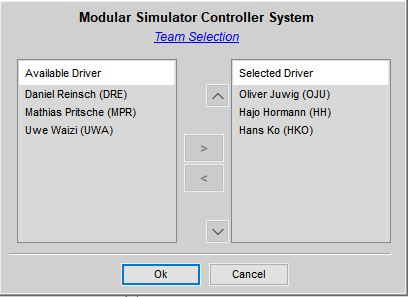
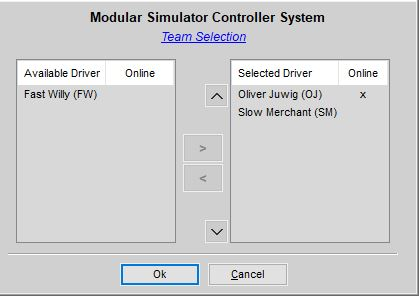
Documentation Update

diff --git a/Docs/Team Server.md b/Docs/Team Server.md
@@ -2,6 +2,8 @@
 
 *Team Server* is a server-based solution, which enables you to use the services of the Virtual Race Assistants in a team race, e.g. a 24h race. Without the *Team Server* these services are only available to the driver of the first stint, for all other drivers the Race Assistants do not even start because they do not have the data from the first laps. With the help of *Team Server*, a central server that manages the data of all drivers in a database, this critical knowledge can now be shared between all drivers. The connection to this server is established by the individual applications of the Simulator Controller suite ("Simulator Controller", "Race Engineer", "Race Strategist", ...) using Web APIs over HTTPS. This ensures the greatest possible interoperability and flexibility when setting up the central server.
 
+Beside providing the basis for team races, the Team Server can also be used as a central data hub for all telemetry data collected by any team member. This data can be replicated to your local telemetry database to be used during strategy development or any other data related tasks.
+
 A public test server can be used for a test ride with with the Tean Server and ["Race Center"](https://github.com/SeriousOldMan/Simulator-Controller/wiki/Team-Server#race-center), to see what it can do for you and your team. See the [description](https://github.com/SeriousOldMan/Simulator-Controller/wiki/Team-Server#test-session) below for more information on how to connect to the server and load a test session.
 
 To give you a quick start with the Team Server, a managed server is available for you and your teams to use. To get access, you have to become a patron of Simulator Controller. Please check the [home page](https://www.patreon.com/simulatorcontroller) on www.patreon.com for more information. But you can also host your own instance of the Team Server, which is described in detail in the section below.
@@ -19,6 +21,8 @@ To start the *Team Server*, you simply start the "Team Server.exe" from the corr
 
 	  "TokenLifeTime": 10080,
 
+	  "ConnectionLifeTime": 300,
+
 	  "Accounts": [
 		{
 		  "Name": "admin",
@@ -29,6 +33,8 @@ To start the *Team Server*, you simply start the "Team Server.exe" from the corr
 		  "Name": "Test",
 		  "Password": "",
 		  "Minutes": 120,
+		  "Session": true,
+		  "Data": true,
 		  "Reset": true
 		}
 	  ]
@@ -36,9 +42,9 @@ To start the *Team Server*, you simply start the "Team Server.exe" from the corr
 
 You first have to decide, where to locate the database, where all stuff will be stored. *Team Server* uses the *SQLite* SQL database ngine, therefor you can provide for the "DBPath" option any valid connect string supported by *SQLite*. The most common connect string file be a file path like "D:\Controller\Database\TeamServer.db", for example. But you can also provide the special connect string ":memory:", which will instantiate the database in the process memory. Please be aware, that everything will be lost, if this process terminates. You can also use the special connect string ":local:", which creates a "TeamServer.db" file in the same directory as the "Team Server.exe" executable. If this works, depends on your hosting environment and the quotas assigned to your app by your hosting company.
 
-The next option, "TokenLifeTime", specifies, how long an access token for your team mates will be valid. Access tokens will be described in detail in a later chapter. The life time will be specified in minutes, the 10080 minutes from the example above are exactly 7 days.
+The next option, "TokenLifeTime", specifies, how long a session token for your team mates will be valid. Session tokens will be described in detail in a later chapter. The life time will be specified in minutes, the 10080 minutes from the example above are exactly 7 days. With "ConnectionLifeTime" you specifiy also in seconds how long a connection to the Team Server is to be considered active. This is only for administrtaive purposes, since a client of the Team Server does not need a connection to perform a request, only a valid token. But connections are used in the "Server Administration" tool as well as in the "Race Center" to display, who has been active on the Team Server recently.
 
-Using the "Accounts" option, you can *preload* accounts into an empty database. This cannot be empty, or you won't be able to connect to the *Team Server*. So make sure, that at least one administrator account will be created, since only these accounts will have access to the server administration tools. The number of "Minutes" specifies the amount of time, this account has left for team sessions (necessary for the managed pay-per-use model). Last, but not least, you can create accounts, that will reset with each restart of the server, for example for test purposes. If you are the only one, who will createa and manage teams, this is it, otherwise hand over the corresponding account name and password to your mates.
+Using the "Accounts" option, you can *preload* accounts into an empty database. This cannot be empty, or you won't be able to connect to the *Team Server*. So make sure, that at least one administrator account will be created, since only these accounts will have access to the server administration tools. The number of "Minutes" specifies the amount of time, this account has left for team sessions (necessary for the managed pay-per-use model). Using the attributes "Session" (default: *true*) and "Data" (default: *false*) you can specify whether users from this account may access team sessions and / or use the data synchronization. Last, but not least, you can create accounts, that will reset with each restart of the server, for example for test purposes, by using the "Reset" attribute. Default here is *false*. If you are the only one, who will create and manage teams, this is it, otherwise hand over the corresponding account name and password to your mates.
 
 Last, but not least, you have to communicate the web URI to all team managers and drivers, which will use the *Team Server*. An URI for your local PC will look like "https://localhost:5001", one for an Azure might look like "https://teamserver.thebigo.azurewebsites.com". This depends on your chosen host environment.
 
@@ -56,13 +62,17 @@ You manage your teams using the "Simulator Configuration" application. You will 
 
 In the first field, you select a folder, where dynamic session data will be stored, when you and your team mates will use the "Race Center" during the session. If you don't supply a special directory here, the data will be stored in the temporary folder in the *Simulator Controller\Temp* folder, which is located in your user *Documents* folder and might therefore be lost at the end of the session. Please see the documentation for "Race Center" down below for more information on data handling.
 
-Then you have to enter the URI, where the *Team Server* can be reached (see above). Then you have to provide the account credentials (name and password) in the second line. If everything is correct, you will get an access token, if you click on the small button with the key (otherwise you will see an error dialog, which describes the problem). This access token will always be freshly created and is therefore valid for the period stated in the "Settings.json" file as described in the [installation](https://github.com/SeriousOldMan/Simulator-Controller/wiki/Team-Server#installation--configuration) chapter. You can copy both the Server URI and the token to the clipboard using the small buttons on the right side and you can change your password by clicking on the small pencil beside the password field.
+Then you have to enter the URI, where the *Team Server* can be reached (see above). Then you have to provide the account credentials (name and password) in the second line. If everything is correct, access tokens will be created, if you click on the small button with the key (otherwise you will see an error dialog, which describes the problem). The token in the first field is a session token to access team races. It will always be freshly created and is therefore valid for the period stated in the "Settings.json" file as described in the [installation](https://github.com/SeriousOldMan/Simulator-Controller/wiki/Team-Server#installation--configuration) chapter. The second token, which will never change as long as the account exists, can be used to create a replication partnership between your local telemetry database and the central database. See the documentation for the ["Session Database" configuration](https://github.com/SeriousOldMan/Simulator-Controller/wiki/Virtual-Race-Engineer#choosing-the-database-location) for more information.
 
-You can now hand the access token to your team mates, but before you do this, you have to create a team for them. You can create as many teams as you whish, each of which can have as many drivers as necessary. The most important part is the naming of the drivers, as these names are used to identify the driver during the race. It is absolutely important that you enter the names (First name, last name and nick name) exactly as they will appear in the simulation. The names will appear in the format *firstName* *lastName* (*nickName*), where the paranthesis are not part of the nick name. In the last list, you enter the sessions or events you want to participate in with your team, for example "24h of Bathurst". Please note, that all changes you made to your teams, drivers and sessions on the "Team" tab will be saved permanently, independent whether you leave the "Race Settings" dialog using the "Ok" or the "Cancel" button.
+Please note, that you can copy the Server URI and the tokens to the clipboard using the small buttons on the right side of the fields and you can change your password by clicking on the small pencil beside the password field.
+
+You can now hand the session token to your team mates, but before you do this, you have to create a team for them. You can create as many teams as you whish, each of which can have as many drivers as necessary. The most important part is the naming of the drivers, as these names are used to identify the driver during the race. It is absolutely important that you enter the names (First name, last name and nick name) exactly as they will appear in the simulation. The names will appear in the format *firstName* *lastName* (*nickName*), where the paranthesis are not part of the nick name. In the last list, you enter the sessions or events you want to participate in with your team, for example "24h of Bathurst". Please note, that all changes you made to your teams, drivers and sessions on the "Team" tab will be saved permanently, independent whether you leave the configuration dialog using the "Save" or the "Cancel" button.
+
+Data tokens can also be shared with your team mates. You do not have to create a team in this case. Simply send the token to everyone who will take part in the data replication partnership. See the documentation of the ["Session Database" tool](https://github.com/SeriousOldMan/Simulator-Controller/wiki/Virtual-Race-Engineer#managing-the-session-database) for more information. The telemetry data shared using the central Team Server in this way will be used in the "Strategy Workbench", for example.
 
 Note: Deleting Teams, Drivers and Sessions may take quite a while, depending on the amount of data to be changed on the server. Deleting a session with data from a 24 hour race, or deleting the corresponding team which owns this session, may take several minutes.
 
-Note: Sessions can be *used* many times. If you start a session, which has been used before, all data from the previous usage will be deleted automatically. On the other hand you want to have meaningful names for your sessions, so feel free to delete old sessions and create new ones as necessary.
+Note: Sessions can be *used* multiple times. If you start a session, which has been used before, all data from the previous usage will be deleted automatically. On the other hand you want to have meaningful names for your sessions, so feel free to delete old sessions and create new ones as necessary.
 
 That's it for team administration.
 
@@ -72,9 +82,9 @@ First of all, it is absolutely important to note that a team session can only fu
 
 ![](https://github.com/SeriousOldMan/Simulator-Controller/blob/main/Docs/Images/Race%20Settings%204.JPG)
 
-Select the tab named "Team", and enter the server URI as well as the access token, which has been provided by the team manager as described above in the chapter about [team administration](https://github.com/SeriousOldMan/Simulator-Controller/wiki/Team-Server#managing-teams). Please note, that the tab "Team" is not available in the "Session Database", since the settings that are stored there will be independent of a given team.
+Select the tab named "Team", and enter the server URI as well as the session token, which has been provided by the team manager as described above in the chapter about [team administration](https://github.com/SeriousOldMan/Simulator-Controller/wiki/Team-Server#managing-teams). Please note, that the tab "Team" is not available in the "Session Database", since the settings that are stored there will be independent of a given team.
 
-Once you have entered the server credentials, you can click on the small button with the key and the available teams, drivers and sessions associated with the access token will be loaded. As an alternative, you can hold down the Control key, while pressing on the "Key" button which will open a login dialog where you can enter the login credentials of the team manager. Select the team, your driver and the session, and you are done - almost.
+Once you have entered the server credentials, you can click on the small button with the key and the available teams, drivers and sessions associated with the session token will be loaded. As an alternative, you can hold down the Control key, while pressing on the "Key" button which will open a login dialog where you can enter the login credentials of the team manager. Select the team, your driver and the session, and you are done - almost.
 
 ## Running a team session
 
@@ -110,7 +120,7 @@ Important: "Race Center" displays various graphs using the Google chart library 
 
 ### Connecting to a Session
 
-To use the "Race Center", you must have a valid connection to a team session. This is normally handled by entering the corresponding server URL and access token into the ["Race Settings" application](https://github.com/SeriousOldMan/Simulator-Controller/wiki/Team-Server#preparing-a-team-session), but you can even connect to a team session without being an active driver in the session by entering the access token supplied by your team manager directly into the field at the top of the "Race Center" window. Then either click on the small button with the key on the left of the token field or choose "Connect" from the "Session" menu. As an alternative, you can hold down the Control key, while pressing on the "Key" button or choosing the menu command, which will open a login dialog where you can enter the login credentials of the team manager.
+To use the "Race Center", you must have a valid connection to a team session. This is normally handled by entering the corresponding server URI and session token into the ["Race Settings" application](https://github.com/SeriousOldMan/Simulator-Controller/wiki/Team-Server#preparing-a-team-session), but you can even connect to a team session without being an active driver in the session by entering the session token supplied by your team manager directly into the field at the top of the "Race Center" window. Then either click on the small button with the key on the left of the token field or choose "Connect" from the "Session" menu. As an alternative, you can hold down the Control key, while pressing on the "Key" button or choosing the menu command, which will open a login dialog where you can enter the login credentials of the team manager.
 
 If you have connected to a session that has already been used in a previous race and there is still data stored in the session, it might take a while, before all data have been loaded. The window controls will be blocked during this time and you will see a small mark rotating on the right side of the window to show you that data is being requested from the server.
 
@@ -300,14 +310,14 @@ Important: The correction factor to be applied for temperature corrections will 
 
 #### Automatically select the next driver
 
-The automatic selection of the next driver is supported for *Assetto Corsa Competizione* and *rFactor 2*, as long a sthe following apply:
+The automatic selection of the next driver is supported for *Assetto Corsa Competizione* and *rFactor 2*, as long as the following apply:
 
   1. A stint plan is available and is up to date, at least for the driver of the current and the driver for the next stint.
-  2. You selected the participating drivers from all available drivers of your team and ordered them according to the entry list of the event using "Select Team..." command in the "Pitstop" menu. Once you have done this, you can choose the next driver when planning a pitstop using the correspnding drop down menu.
+  2. You selected the participating drivers from all available drivers of your team and ordered them according to the entry list of the event using "Select Team..." command in the "Session" or in the "Pitstop" menu. Once you have done this, you can choose the next driver when planning a pitstop using the correspnding drop down menu.
   
      ![](https://github.com/SeriousOldMan/Simulator-Controller/blob/main/Docs/Images/Race%20Center%2018.JPG)
 	 
-	 Please make sure, that the names and the order of the selected drivers are identical to the content of the entry list for your team in the upcoming session. Otherwise, wrong drivers might be selected for the next stint in the pitstop automation.
+	 Please make sure, that the names and the order of the selected drivers are identical to the content of the entry list for your team in the upcoming session. Otherwise, wrong drivers might be selected for the next stint in the pitstop automation. As a beneficial side effect, you can see in the list of drivers also, which of the drivers are currently connected to the Team Server.
 
 Once, you have dialed all settings, choose "Instruct Engineer" from the "Pitstop" menu and the entered values will be transferred to the Race Engineer of the active driver. The driver will be informed by Jona about the planned pitstop, but no interaction is necessary. The settings will be automatically entered into the Pitstop MFD, once the car crosses the start/finish line of the lap for which the pitstop has been planned, and the driver is called to the pit.
   
@@ -319,13 +329,17 @@ This section is only relevant for those of you, who want to setup and manage the
 
 In the top section of "Server Administration" you have to enter the login credentials of one of the administration accounts you have setup during the initial configuration of the Team Server. You have thought of that, right? If not, back to start. After you have successfully logged into the Team Server, you can create, delete or change accounts, which will have access to the server. An account is identified of a name, which must be unique, an optional E-Mail address, as well as contingent rule for the minutes which are available for race sessions on this account. You also have to create an initial password, which you must hand over together with the account name to the (team) manager of this account. You can create a password by clicking on the small key button and you can copy the password to the clipboard using the small button on the right.
 
-Very important are the settings for the time contingent. You can choose between "One-Time" contingents, which renders the account useless after the contingent has been used up, or you can choose two variants of renewable time contingents. The number of minutes entered on the right will be available directly after the account has been saved and they might be automatically renewed according to the contingent rule. More on that later. Last, but not least, you can manually set the number of currently available minutes using the small button with the clock.
+Then you define, whether users of this account can access team session and / or use data replication using the checkboxes. Although technically possible to create an account which has no rights at all, this does not make much sense, right? So tick at least one of those boxes.
 
-If you don't want to use all this stuff, simply set the number of minutes to an astronomical high number and the contingent rule to "One-Time". You will end up with an account, that will last forever.
+Very important are the settings for the time contingent. You can choose between "One-Time" contingents, which renders the account useless after the contingent has been used up, or you can choose two variants of renewable time contingents. The number of minutes entered on the right will be available directly after the account has been saved and they might be automatically renewed according to the contingent rule. More on that later. Last, but not least, you can manually set the number of currently available minutes using the small button with the clock. If you don't want to use all this stuff, you can create an unlimited account which is usefull, if you run your own server for a closed group of team mates.
 
 ![](https://github.com/SeriousOldMan/Simulator-Controller/blob/main/Docs/Images/Server%20Administration%202.JPG)
 
 On the second page, you start a couple of background jobs on the server, which will keep everything tight and clean. You can delete periodically expired access tokens, you can define when to renew the time contingents on all accounts, and you can manage finished sessions, which might occupy a lot of disk space on the server. "Cleanup" means that all secondary data (telemetry, standings, etc.) will be deleted, but the stints and laps will survive whereas a "Reset" also deletes all stints with their laps, which just retains the name of the session. But you might also let the server fully delete finished sessions. Whatever you define here, finished session will always be retained for one hour after the end of the session, so that all drivers have enough time to download the session data from the server.
+
+![](https://github.com/SeriousOldMan/Simulator-Controller/blob/main/Docs/Images/Server%20Administration%203.JPG)
+
+Last, but not least, you can investigate the list of currently active connections to the server on the third page. You will see the name of your team mate, the role with which he is currently connected to the server and since then. If the connection is for an active team session, the name of the session will be shown as well.
 
 ## How it works
 

diff --git a/README.md b/README.md
@@ -127,7 +127,7 @@ Another capability of the Virtual Race Strategist is to support you during the [
 
 ![](https://github.com/SeriousOldMan/Simulator-Controller/blob/main/Docs/Images/Strategy%20Workbench.JPG)
 
-You can even use all these functionalities during multiplayer team races using the [*Team Server*](https://github.com/SeriousOldMan/Simulator-Controller/wiki/Team-Server), which handles the state and knowledge of the Race Assistants and share this information between all participating drivers. The Team Server also supports a so called "Race Center", a console, which can be used by any team member (even if not an active driver) to gather all kind of session data and remote control various aspects of the session, for example the settings for an upcoming pitstop.
+You can even use all these functionalities during multiplayer team races using the [*Team Server*](https://github.com/SeriousOldMan/Simulator-Controller/wiki/Team-Server), which handles the state and knowledge of the Race Assistants and share this information between all participating drivers. The Team Server is the backend for the so called "Race Center", a console, which can be used by any team member (even if not an active driver) to gather all kind of session data and remote control various aspects of the session, for example the settings for an upcoming pitstop.
 
 ![](https://github.com/SeriousOldMan/Simulator-Controller/blob/main/Docs/Images/Race%20Center%201.JPG)
 
